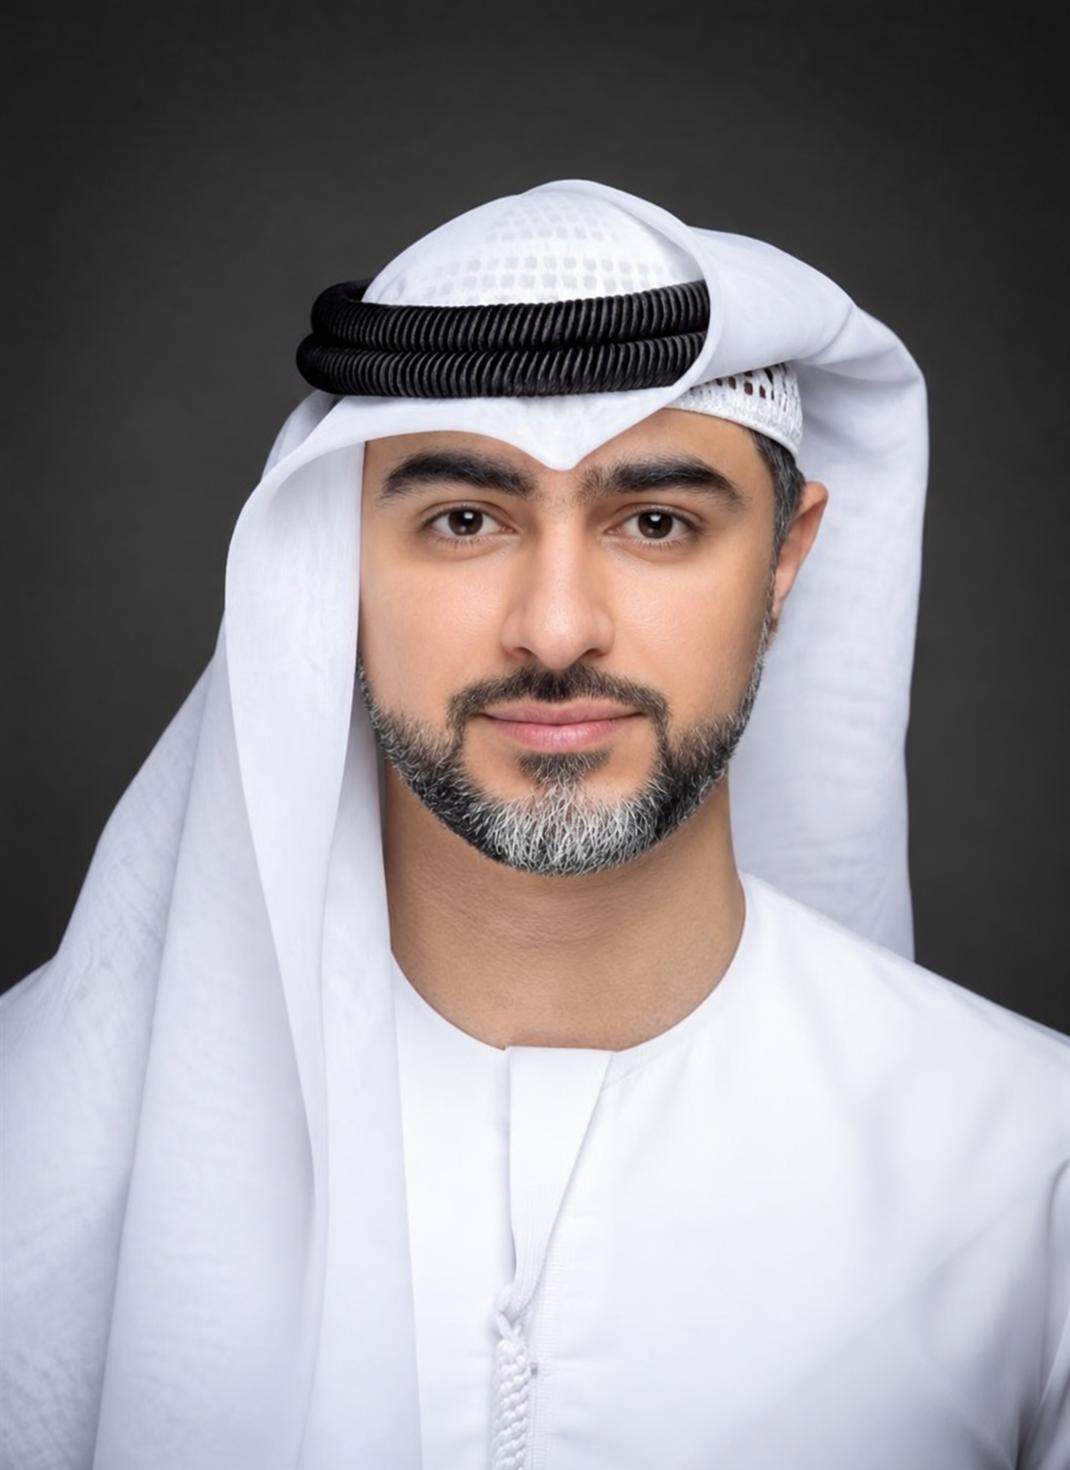
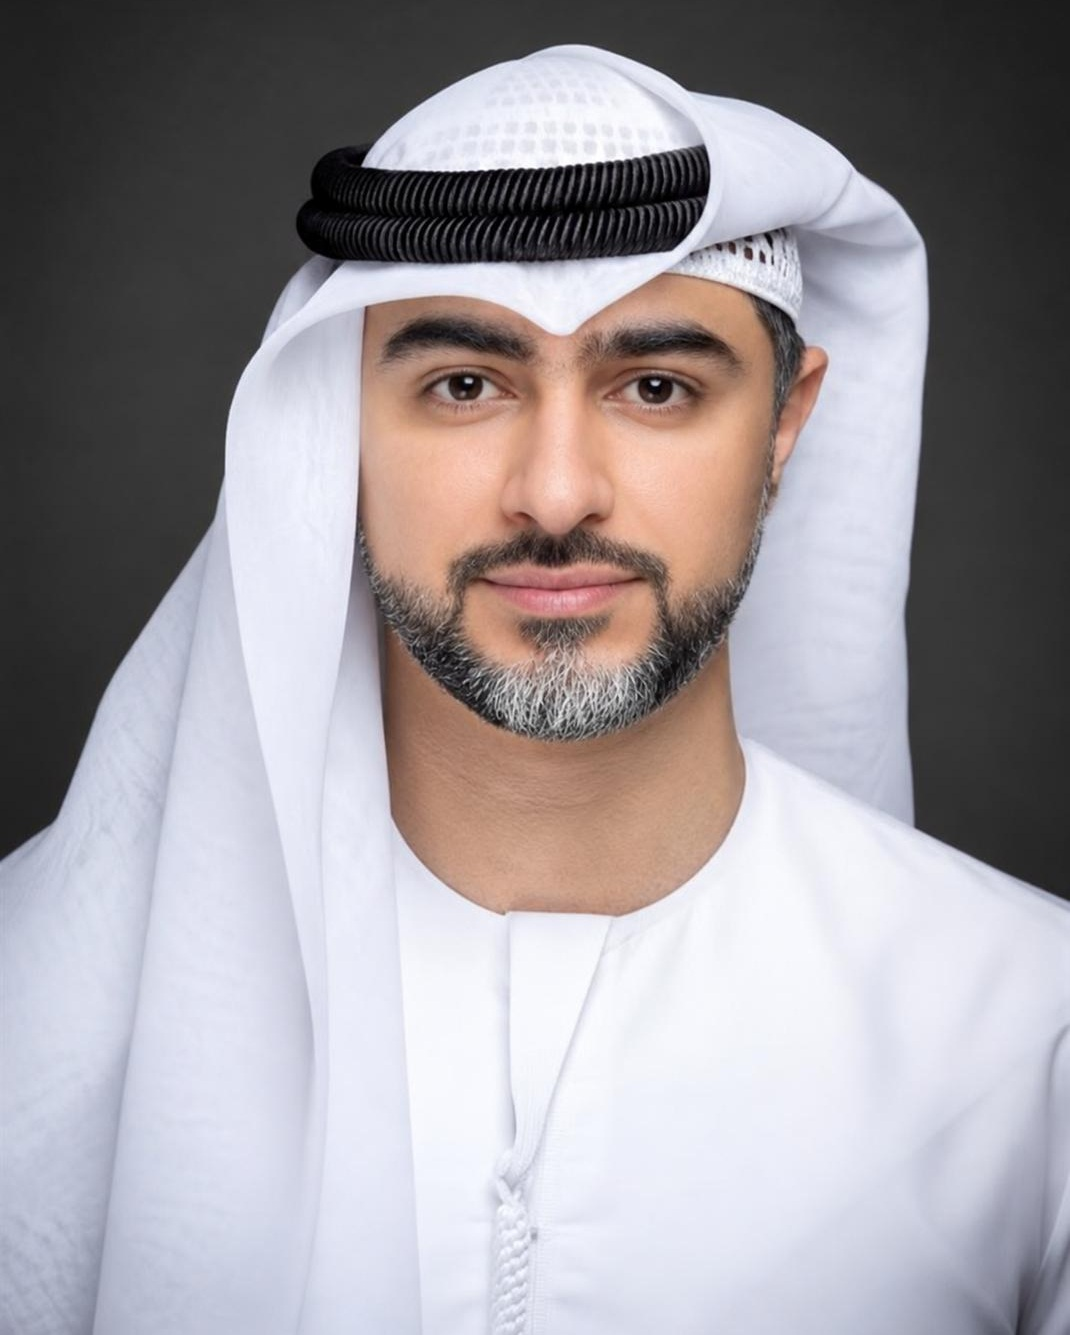
update

diff --git a/index.html b/index.html
@@ -377,6 +377,46 @@
         </div>
       </section>
 
+      <section class="voices-stage-section" id="voices-stage">
+        <div class="container">
+          <div class="voices-stage-header">
+            <div class="voices-stage-intro">
+              <div class="voices-stage-eyebrow">
+                <span></span>
+                FUTURE IMPACTFUL
+                <div class="gredient-font">STRATEGIES</div>
+              </div>
+              <h2>The voices on <span class="gredient-font">STAGE</span></h2>
+              <p>
+                The stage is reserved for practitioners, decision-makers and
+                leaders who are actively shaping how AI enters the workforce.
+              </p>
+            </div>
+          </div>
+
+          <div class="home-speakers-swiper swiper">
+            <div class="swiper-wrapper" id="home-speakers-wrapper"></div>
+            <div class="home-speakers-controls">
+              <button
+                class="home-speakers-prev"
+                type="button"
+                aria-label="Previous speakers"
+              >
+                <i class="fa-solid fa-arrow-left" aria-hidden="true"></i>
+              </button>
+
+              <button
+                class="home-speakers-next"
+                type="button"
+                aria-label="Next speakers"
+              >
+                <i class="fa-solid fa-arrow-right" aria-hidden="true"></i>
+              </button>
+            </div>
+          </div>
+        </div>
+      </section>
+
       <section class="why-uae-section" id="why-uae">
         <div class="container">
           <div class="title">
@@ -1041,46 +1081,6 @@
             <span></span>
 
             <p>A MORE HUMAN. MORE INTELLIGENT TOMORROW.</p>
-          </div>
-        </div>
-      </section>
-
-      <section class="voices-stage-section" id="voices-stage">
-        <div class="container">
-          <div class="voices-stage-header">
-            <div class="voices-stage-intro">
-              <div class="voices-stage-eyebrow">
-                <span></span>
-                FUTURE IMPACTFUL
-                <div class="gredient-font">STRATEGIES</div>
-              </div>
-              <h2>The voices on <span class="gredient-font">STAGE</span></h2>
-              <p>
-                The stage is reserved for practitioners, decision-makers and
-                leaders who are actively shaping how AI enters the workforce.
-              </p>
-            </div>
-          </div>
-
-          <div class="home-speakers-swiper swiper">
-            <div class="swiper-wrapper" id="home-speakers-wrapper"></div>
-            <div class="home-speakers-controls">
-              <button
-                class="home-speakers-prev"
-                type="button"
-                aria-label="Previous speakers"
-              >
-                <i class="fa-solid fa-arrow-left" aria-hidden="true"></i>
-              </button>
-
-              <button
-                class="home-speakers-next"
-                type="button"
-                aria-label="Next speakers"
-              >
-                <i class="fa-solid fa-arrow-right" aria-hidden="true"></i>
-              </button>
-            </div>
           </div>
         </div>
       </section>

diff --git a/script.js b/script.js
@@ -210,8 +210,8 @@ document.addEventListener("DOMContentLoaded", function () {
         ["Dr. Mira Zakharia", "General Manager Human Resources", "Rotana Hotels", "Dr. Mira Zakharia.png", "https://www.linkedin.com/in/dr-mira-zakharia-6a0a13122/", "speaker-tone-sky"],
         ["Malvika Varma", "Head - Talent Development & Culture", "PRIME Health", "Malvika Varma.png", "https://www.linkedin.com/in/malvika-varma-3586538/", "speaker-tone-rose"],
         ["Samar Samy", "Regional Human Resources Director - South Cluster", "Gulf Cryo", "Samar Samy.jpg", "https://www.linkedin.com/in/samar-msamy/", "speaker-tone-green"],
-        ["Khalid Ahmad Ahli", "Executive Director Human Capital and General Admin", "Ports, Customs & Free Zone Corporation (PCFC)", "khalid-ahli.jpg", "https://www.linkedin.com/in/khalid-ahli-chartered-fcipd-09b72a82/", "speaker-tone-blue"],
-        ["Kinan A. Bahnassi", "Senior Adviser to the Secretary-General | Policy & Strategy", "Education, Human Development, and Community Development Council", "kinan-a.jpg", "https://www.linkedin.com/in/kinan-bahnassi/", "speaker-tone-teal"],
+        ["Khalid Ahmad Ahli", "Executive Director Human Capital and General Admin", "Ports, Customs & Free Zone Corporation (PCFC)", "Khalid Ahmad Ahli.jpg", "https://www.linkedin.com/in/khalid-ahli-chartered-fcipd-09b72a82/", "speaker-tone-blue"],
+        ["Kinan A. Bahnassi", "Senior Adviser to the Secretary-General | Policy & Strategy", "Education, Human Development, and Community Development Council", "Dr. Kinan Bahnassi.png", "https://www.linkedin.com/in/kinan-bahnassi/", "speaker-tone-teal"],
       ];
 
       homeSpeakersWrapper.innerHTML = speakers
